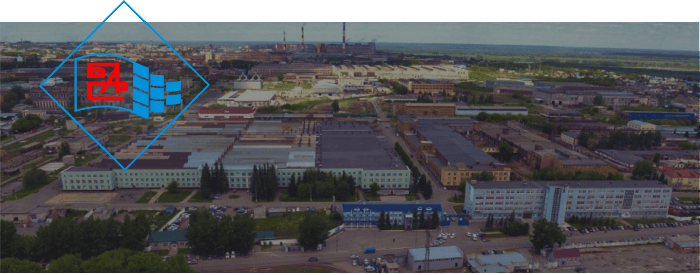
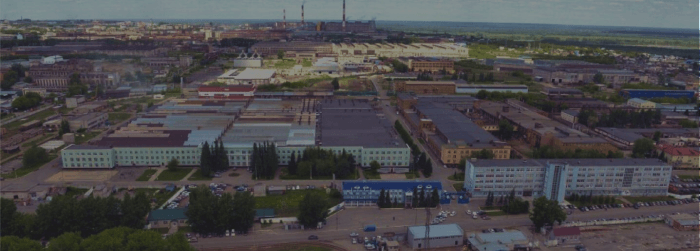
08_02_2022launch

diff --git a/src/contacts.html b/src/contacts.html
@@ -31,17 +31,19 @@
                 <h1 class="contacts__heading">Контакты ООО “Термоблок”</h1>
             </div>
             <div class="contacts__main">
-                <div style="position: absolute; top:0; left: 0; z-index: 0;"><img src="<%=require('./images/rect_sect.svg')%>" style="width: 30%;"></div>
+                <!--<div style="position: absolute; top:0; left: 0; z-index: 0;"><img src="<%=require('./images/rect_sect.svg')%>" style="width: 30%;"></div>-->
+                <figure class="highliter highliter_top-left"><div class="highliter__element highliter__element_stretched"></div></figure>
+                <figure class="highliter highliter_bottom-right"><div class="highliter__element highliter__element_stretched"></div></figure>
                 <ul class="contact-list">
                     <li>
                         <h3 class="contacts__main-title">Контакты:</h3>
                         <ul class="contact-list">
-                            <li><a  class="contacts__tel" href="#">market@termoblok.ru</a></li>
-                            <li><a  class="contacts__tel" > +7 (385) 299-69-80</a></li>
+                            <li><a class="contacts__tel" href="mailto:market@termoblok.ru">market@termoblok.ru</a></li>
+                            <li><a  class="contacts__tel" href="tel:+73852996980">+7 (385) 299-69-80</a></li>
                         </ul>
                     </li>
                     <li>
-                        <p class="contacts__tel"><span  class="contacts__main-title">Телефон горячей линии: </span>8-800-700-29-24</p>
+                        <p class="contacts__tel"><span  class="contacts__main-title">Телефон горячей линии: </span><a  class="contacts__tel" href="tel:+78007002924">8-800-700-29-24</a></p>
                     </li>
                     <li>
                         <h3 class="contacts__main-title">Производство и отдел продаж:</h3>
@@ -51,7 +53,6 @@
                         </p>
                     </li>
                 </ul>
-                <div style="position: absolute; bottom:0; right: 0; transform: scale(-1); z-index: 0;"><img src="<%=require('././images/rect_sect.svg')%>" style="width: 30%;"></div>
             </div>
             <div class="contacts__recv contact-padding-in-grid">
                 <h2>Реквизиты ООО "Термоблок"</h2>
@@ -70,8 +71,8 @@
                         <li>Бедарева Элла Владимировна</li>
                     </ul>
                 </p>
-                <p>Приёмная: +7 (3852) 77-55-92</p>
-                <p>Отдел металлообработки: +7 (3852) 53-28-43</p>
+                <p>Приёмная: <a  class="contacts__tel" href="tel:+73852775592"> +7 (3852) 77-55-92</a></p>
+                <p>Отдел металлообработки: <a  class="contacts__tel" href="tel:+73852532843">+7 (3852) 53-28-43</a></p>
             </div>
             <div style="min-height: 200px;">
                 <script type="text/javascript" async src="https://api-maps.yandex.ru/services/constructor/1.0/js/?um=constructor%3A397d4c8a0bcca922b57633d6c446b7c965f2df02e0e40f00addca2ad1b45d0da&amp;width=100%25&amp;lang=ru_RU&amp;scroll=false"></script>
@@ -80,7 +81,7 @@
               <h3 class="contacts__main-title">Дополнительный офис</h3>
                 <ul class="contact-list">
                     <li class="contacts__tel">Адрес: г. Одинцово, поселок Акулова, ул. Новая. д. 144</li>
-                    <li class="contacts__tel">Телефон: 8 (495) 122-24-52</li>
+                    <li class="contacts__tel">Телефон: <a  class="contacts__tel" href="tel:+74951222452">8 (495) 122-24-52</a></li>
                 </ul>
             </div>
         </section>

diff --git a/src/index.html b/src/index.html
@@ -16,9 +16,19 @@
       width: 5px;
       height: 90%;
     }
+    .swiper-scrollbar-main {
+      width: 2px!important;
+      /*background-color: rgba(255, 68, 0, 0.568)!important;*/
+      background: linear-gradient(180deg,hsla(0,0%,97%,0),#f7f7f7 49.49%,hsla(0,0%,97%,0) 92.71%);
+      height: 100%!important;
+    }
 
     .swiper-scrollbar-main .swiper-scrollbar-drag {
-      background: #999897;
+      background: #1b1b1b;
+      width: 10px!important;
+      border-radius: 0;
+      left: -5px;
+      top: 0;
 
     }
 
@@ -258,8 +268,10 @@
       </div>
 
       <div class="ds-second">
-        <div style="position: absolute; top:0; left: 0; width: 50%;"><img src="<%=require('./images/rect_sect.svg')%>" style="width: 70%;" alt="Декор" ></div>
-        <div style="position: absolute; bottom:0; right: 0; transform: scale(-1); width: 50%;"><img src="<%=require('././images/rect_sect.svg')%>" style="width: 70%;" alt="Декор"></div>
+        <!--<div style="position: absolute; top:0; left: 0; width: 50%;"><img src="<%=require('./images/rect_sect.svg')%>" style="width: 70%;" alt="Декор" ></div>
+        <div style="position: absolute; bottom:0; right: 0; transform: scale(-1); width: 50%;"><img src="<%=require('././images/rect_sect.svg')%>" style="width: 70%;" alt="Декор"></div>-->
+        <figure class="highliter highliter_large highliter_top-left"><div class="highliter__element highliter__element_stretched"></div></figure>
+        <figure class="highliter highliter_large highliter_bottom-right"><div class="highliter__element highliter__element_stretched"></div></figure>
         <div class="scroll-slider swiper">
           <div class="swiper-wrapper">
             <div class="swiper-slide" style="height: auto; box-sizing: border-box; padding: 5%;">
@@ -628,6 +640,8 @@
           </div>
           <div class="bsz-new__img-container">
             <!--<img class="bsz-new__img" src="<%=require('./images/place_new.png')%>" alt="Вид на станкостроительный завод сверху">-->
+            <img src="<%=require('./images/logo_BSZ_svg.svg')%>" class="bsz-new__logo" alt="Барнаульский станкостроительный завод">
+            <a class="bsz-new__link-blank" href="https://bszholding.ru" target="_blank">Перейти /-></a>
           </div>
         </div>
       </div>

diff --git a/src/blocks/highliter/highliter.css b/src/blocks/highliter/highliter.css
@@ -1,0 +1,76 @@
+.highliter {
+  position: absolute;
+  width: 15%;
+  padding: 0;
+  margin: 0;
+}
+
+.highliter_large {
+  width: 30%;
+}
+
+.highliter_top-left {
+  top: 0;
+  left: 0;
+}
+
+.highliter_bottom-right {
+  bottom: 0;
+  right: 0;
+}
+
+.highliter__element {
+  position: relative;
+  width: 100%;
+  padding-bottom: 100%;
+}
+
+.highliter__element_stretched {
+  padding-bottom: 50%;
+}
+
+/*горизонтальная плашка*/
+.highliter_top-left .highliter__element::after {
+  content: '';
+  position: absolute;
+  top:0;
+  left: 0;
+
+  width: 100%;
+  height: 2px;
+  background-color: tomato;
+}
+
+/*вертикальная плашка*/
+.highliter_top-left .highliter__element::before {
+  content: '';
+  position: absolute;
+  top:0;
+  left: 0;
+  width: 2px;
+  height: 100%;
+  background-color: tomato;
+}
+
+/*горизонтальная плашка*/
+.highliter_bottom-right .highliter__element::after {
+  content: '';
+  position: absolute;
+  bottom:0;
+  right: 0;
+
+  width: 100%;
+  height: 2px;
+  background-color: tomato;
+}
+
+/*вертикальная плашка*/
+.highliter_bottom-right .highliter__element::before {
+  content: '';
+  position: absolute;
+  top:0;
+  right: 0;
+  width: 2px;
+  height: 100%;
+  background-color: tomato;
+}

diff --git a/src/blocks/bsz-new/bsz-new.css b/src/blocks/bsz-new/bsz-new.css
@@ -8,7 +8,7 @@
 
   display: flex;
   justify-content: space-between;
-  align-items: flex-start;
+  align-items: stretch;
 
 }
 
@@ -34,6 +34,16 @@
   flex-basis: 40%;
   background-image: url(../../images/place_new.png);
   width: 100%;
+  background-repeat: no-repeat;
+  background-position: top;
+  flex-shrink: 0;
+  position: relative;
+  bottom: 50px;
+  background-size: contain;
+
+  display: flex;
+  align-items: center;
+  justify-content: space-evenly;
 }
 
 .bsz-new__img {
@@ -45,6 +55,17 @@
   width: 100%;
 }
 
+.bsz-new__logo {
+  height: 60%;
+  
+}
+
+.bsz-new__link-blank {
+  text-decoration: none;
+  color: rgb(0, 147, 221);
+  font-weight: 400;
+  font-size: 24px;
+}
 
 .bsz-new__text {
   margin: 30px 0;

diff --git a/src/pages/index.css b/src/pages/index.css
@@ -189,8 +189,9 @@
 @import url(../blocks/sections/header-index/header-index.css);
 /*ПРОДУКЦИЯ 3D Slider*/
 @import url(../blocks/product-types/product-types.css);
-@import url(../blocks/ds/ds.css);
 
+@import url(../blocks/ds/ds.css);
+@import url(../blocks/highliter/highliter.css);
 
 
 @import url(../blocks/mainmodels/mainmodels.css);
@@ -209,6 +210,10 @@
 
 
 @import url(../blocks/oakley/oakley.css);
+
+
+
+
 
 
 @import url(../blocks/info/info.css);

diff --git a/src/blocks/raschet-bem/__subst-selection-block/raschet-bem__subst-selection-block.css b/src/blocks/raschet-bem/__subst-selection-block/raschet-bem__subst-selection-block.css
@@ -3,7 +3,7 @@
   align-items: center;
 }
 
-@media screen and (max-width: 768px) {
+@media screen and (max-width: 500px) {
 .raschet-bem__subst-selection-block {
   flex-direction: column;
 }

diff --git a/src/pages/contacts.css b/src/pages/contacts.css
@@ -21,8 +21,7 @@
 
 /*Контакты*/
 @import url(../blocks/contacts/contacts.css);
-
-
+@import url(../blocks/highliter/highliter.css);
 
 
 @import url(../blocks/popup/popup.css);
